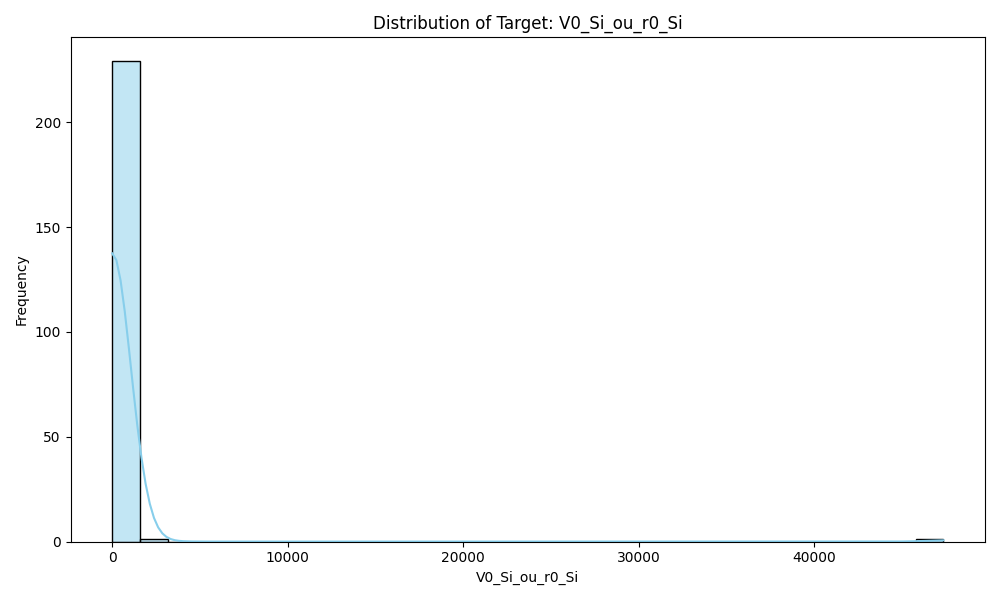
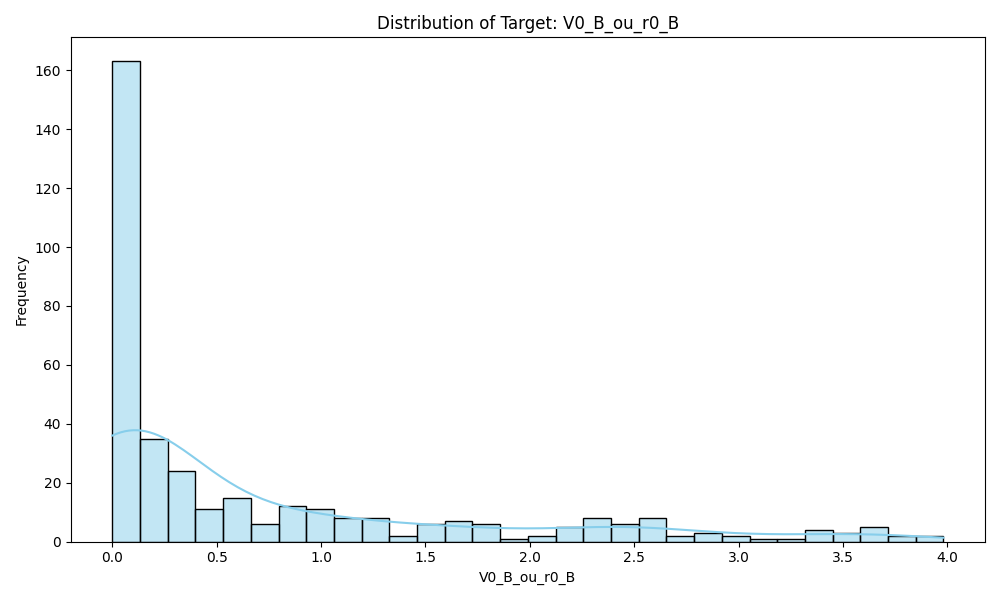
trying with new data

diff --git a/Data_Visualization/Data_Description.py b/Data_Visualization/Data_Description.py
@@ -3,7 +3,7 @@ import matplotlib.pyplot as plt
 import seaborn as sns
 
 # Load your dataset (adjust path if needed)
-df = pd.read_csv("/home/intra.cea.fr/ao280403/Bureau/ML Model/Data/Data Si ph V0.csv")  # Replace with your actual path if different
+df = pd.read_csv("/home/intra.cea.fr/ao280403/Bureau/ML Model/Data/Data B Ph V0.csv")  # Replace with your actual path if different
 
 # Display basic info
 print("🔹 Dataset Info:\n")
@@ -17,16 +17,16 @@ print(df.isnull().sum())
 
 # 📊 Visualize the target distribution
 plt.figure(figsize=(10, 6))
-sns.histplot(df["V0_Si_ou_r0_Si"], kde=True, bins=30, color='skyblue')
-plt.title("Distribution of Target: V0_Si_ou_r0_Si")
-plt.xlabel("V0_Si_ou_r0_Si")
+sns.histplot(df["V0_B_ou_r0_B"], kde=True, bins=30, color='skyblue')
+plt.title("Distribution of Target: V0_B_ou_r0_B")
+plt.xlabel("V0_B_ou_r0_B")
 plt.ylabel("Frequency")
 plt.tight_layout()
 plt.savefig("target_distribution.png")  # Saves the plot
 print("\n✅ Target distribution plot saved as 'target_distribution.png'")
 
 # 🔍 Correlation with target
-correlations = df.corr(numeric_only=True)["V0_Si_ou_r0_Si"].sort_values(ascending=False)
+correlations = df.corr(numeric_only=True)["V0_B_ou_r0_B"].sort_values(ascending=False)
 print("\n🔹 Top features correlated with target:\n")
 print(correlations.head(10))
 print("\n🔹 Least correlated features with target:\n")
